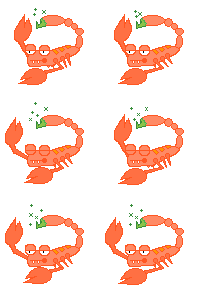
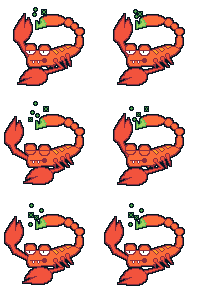
nomeacuerdo

diff --git a/MonkeyDelivery/Src/View/TextureContainer.h b/MonkeyDelivery/Src/View/TextureContainer.h
@@ -23,10 +23,13 @@ enum TextureName {
 	batTexture,
 	mission1Texture,
 	mission2Texture,
+	mission3Texture,
+	mission4Texture,
 	cama,
 	dialogoPrueba,
 	bullTexture,
 	monkeyspritesheet,
+	monkeyspritesheetPirate,
 	batspritesheet,
 	bullspritesheet,
 	catspritesheet,
@@ -53,10 +56,11 @@ enum TextureName {
 	skatesTexture, 
 	shop_Soda,
 	shop_Boots01,
+	shop_Boots02,
 };
 
 
-const int NUM_TEXTURES = 42;
+const int NUM_TEXTURES = 46;
 
 
 
@@ -77,12 +81,15 @@ const TextureAttributes TEXTURE_ATTRIBUTES[NUM_TEXTURES] =
   {"NPCs/NPC_Tucan.png",1,1},
   {"catPrueba.png",1,1},
   {"batPrueba.png",1,1},
-  {"decorations/Mision1.png",1,1},
-  {"decorations/Mision1.png",1,1},
+  {"missions/Mision1.png",1,1},
+  {"missions/Mision2.png",1,1},
+  {"missions/Mision2.png",1,1},
+  {"missions/Mision2.png",1,1},
   {"decorations/bed.png",1,1},
   {"ui/dialoguebox.png",1,1},
   {"bull.png",1,1},
-  {"animaciones mono/monkey_.png",1,1},
+  {"animaciones mono/monkeySpriteSheet.png",1,1},
+  {"animaciones mono/monkeySpriteSheetPirate.png",1,1},
   {"enemies/bat.png",1,1},
   {"enemies/bull.png",1,1},
   {"enemies/cat.png",1,1},
@@ -109,6 +116,7 @@ const TextureAttributes TEXTURE_ATTRIBUTES[NUM_TEXTURES] =
   {"objects/patines.png",1,1},
   {"objects/Shop_Soda.png",1,1},
   {"objects/Shop_Boots01.png",1,1},
+  {"objects/Shop_Boots02.png",1,1},
 };
 
 

diff --git a/MonkeyDelivery/Src/Logic/Shop.cpp b/MonkeyDelivery/Src/Logic/Shop.cpp
@@ -44,10 +44,10 @@ void Shop::addElements(int level)
 	switch (level)
 	{
 	case 1:
-		objects.push_back({ new EnergyDrink(game->getTexture(shop_Soda)), 0, 0, 1, 20}); // <-- precio del hito2 para que puedan ser comprados varios objetos
+		objects.push_back({ new EnergyDrink(game->getTexture(shop_Soda)), 0, 0, 1, 20 });
 		objects.push_back({ new Bike(game->getTexture(shop_Boots01)), 1, 0, 1, 30});
-		objects.push_back({ new Skates(game->getTexture(shop_Soda)), 2, 0, 1, 25});
-		objects.push_back({ new Flashlight(game->getTexture(shop_Boots01)), 3, 0, 1, 10});
+		objects.push_back({ new Skates(game->getTexture(shop_Boots02)), 2, 0, 1, 25});
+		objects.push_back({ new Flashlight(game->getTexture(shop_Boots02)), 3, 0, 1, 10});
 		//objects.push_back({ new Bike(game->getTexture(bullTexture)), 0, 105, 1, 1000});
 		//objects.push_back({ new Bike(game->getTexture(bullTexture)), 1, 105, 1, 1000});
 		//objects.push_back({ new Bike(game->getTexture(bullTexture)), 2, 105, 1, 1000});

diff --git a/MonkeyDelivery/Src/Logic/Game.cpp b/MonkeyDelivery/Src/Logic/Game.cpp
@@ -141,8 +141,8 @@ void Game::start()
 
     partSystem = new ParticleExample();
     partSystem->setRenderer(renderer);                   // set the renderer
-    partSystem->setPosition(670, 760);             // set the position
-    partSystem->setStyle(ParticleExample::FIRE);    // set the example effects
+    partSystem->setPosition(670, 600);             // set the position
+    partSystem->setStyle(ParticleExample::SMOKE);    // set the example effects
 }
 
 void Game::update()
@@ -197,7 +197,7 @@ void Game::draw()
     player_->draw();
     /*player_->drawDebug();*/
 
-    partSystem->draw();
+    //partSystem->draw();
     missionsPanel_->draw();
 }
 

diff --git a/MonkeyDelivery/Src/Utils/Particles/ParticleExample.h b/MonkeyDelivery/Src/Utils/Particles/ParticleExample.h
@@ -28,7 +28,7 @@ public:
     void setStyle(PatticleStyle style);
     SDL_Texture* getDefaultTexture()
     {
-        static SDL_Texture* t = IMG_LoadTexture(_renderer, "fire.png");
+        static SDL_Texture* t = IMG_LoadTexture(_renderer, "C:/Users/jacob/OneDrive/Documents/GitHub/MonkeyDelivery/MonkeyDelivery/Src/Utils/Particles/fire.png");
         //printf(SDL_GetError());
         return t;
     }

diff --git a/MonkeyDelivery/Src/Utils/Particles/ParticleExample.cpp b/MonkeyDelivery/Src/Utils/Particles/ParticleExample.cpp
@@ -532,7 +532,7 @@ void ParticleExample::setStyle(PatticleStyle style)
         _lifeVar = 1;
 
         // size, in pixels
-        _startSize = 60.0f;
+        _startSize = 5.0f;
         _startSizeVar = 10.0f;
         _endSize = START_SIZE_EQUAL_TO_END_SIZE;
 

diff --git a/MonkeyDelivery/Src/Logic/Player.cpp b/MonkeyDelivery/Src/Logic/Player.cpp
@@ -13,7 +13,7 @@ Player::Player(Game* game, AnimationManager* animation) :GameObject(game), anima
 
 	texture = nullptr;
 	setTexture(monkeyspritesheet);
-
+	//setTexture(monkeyspritesheetPirate);
 	setMovState(WALKING);
 	INIT_VEL_ = 1.0;
 

diff --git a/MonkeyDelivery/Src/Logic/MissionsPanel.cpp b/MonkeyDelivery/Src/Logic/MissionsPanel.cpp
@@ -174,6 +174,7 @@ string MissionsPanel::getMissionImage()
 	if (currentMission_ != nullptr) {
 
 		MissionInfo m = missions_.at(currentMission_->getName());
+		std::cout << m.helpImgRoute;
 		return m.helpImgRoute;
 	}
 	else
